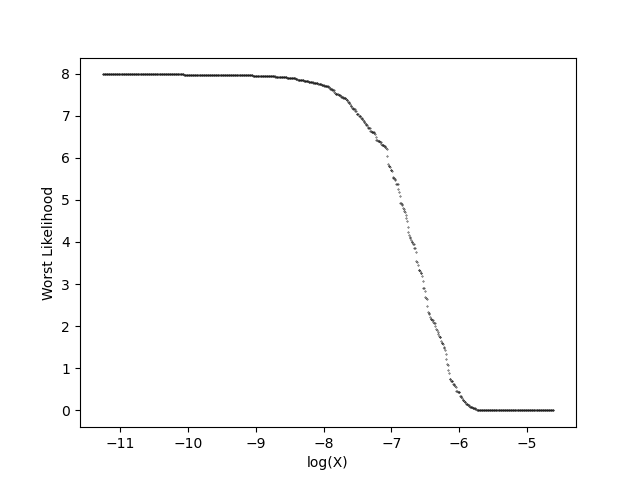
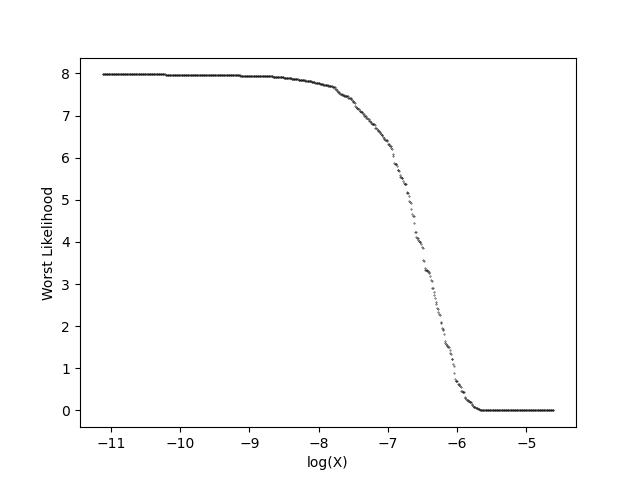
general review

diff --git a/nested_sampling.py b/nested_sampling.py
@@ -179,7 +179,7 @@ def nested_samplig(live_points, dim, resample_function=uniform_proposal, verbose
 
         survivors = np.delete(live_points, Lw_idx, axis=0)
         k = survivors.shape[0]
-        survivor = live_points[int(np.random.uniform(k)),:dim]
+        survivor = live_points[Lw_idx,:dim]
 
         logL_worst.append(logLw)
         Area.append(logwidth+logLw)
@@ -229,7 +229,7 @@ if __name__ == "__main__":
     n = args.num_live_points
     dim = args.dim
     boundary = args.boundary
-    for d in tqdm(range(1,dim+1)):
+    for d in tqdm(range(dim,dim+1)):
         live_points = np.zeros((n, d+2), dtype=np.float64) # the first dim columns for each row represents my multidimensional array of parameters
         if args.proposal == 0:
             prop = 'Uniform'
